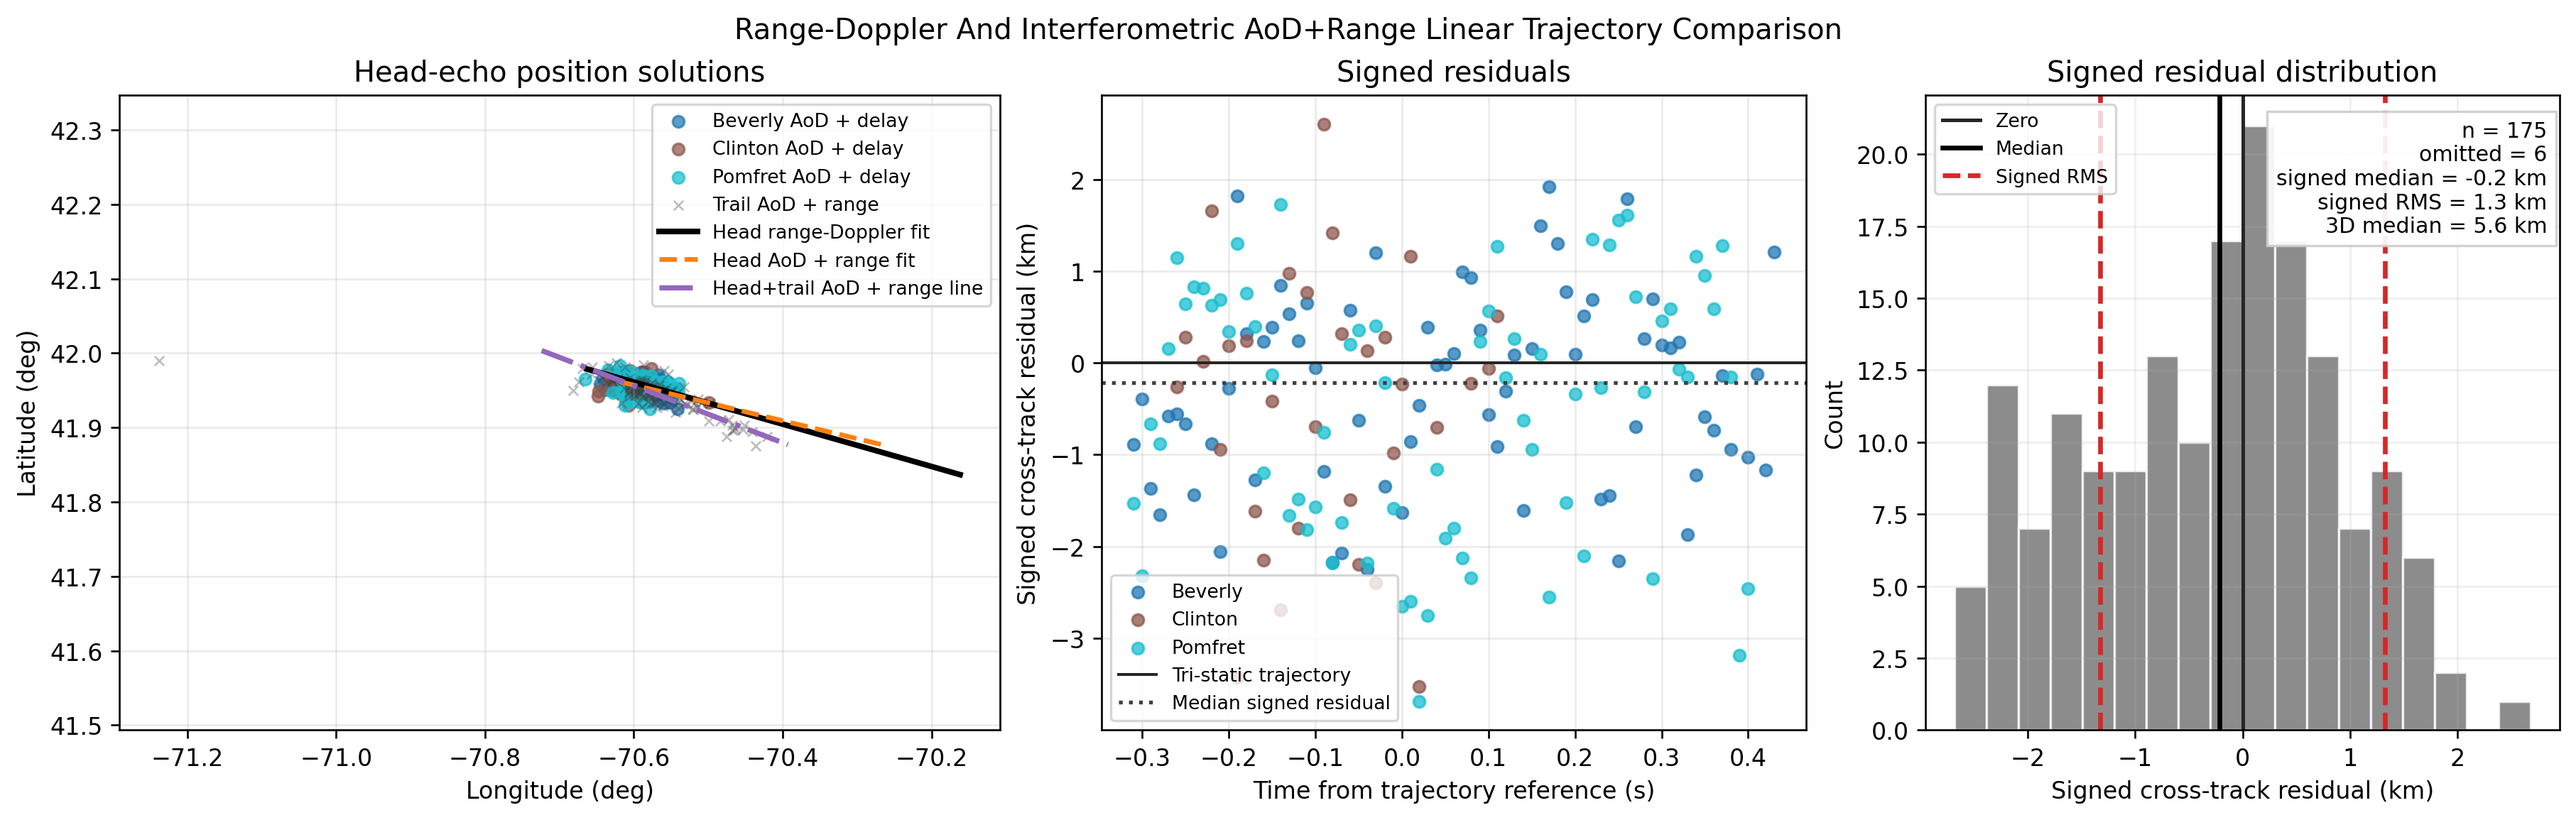
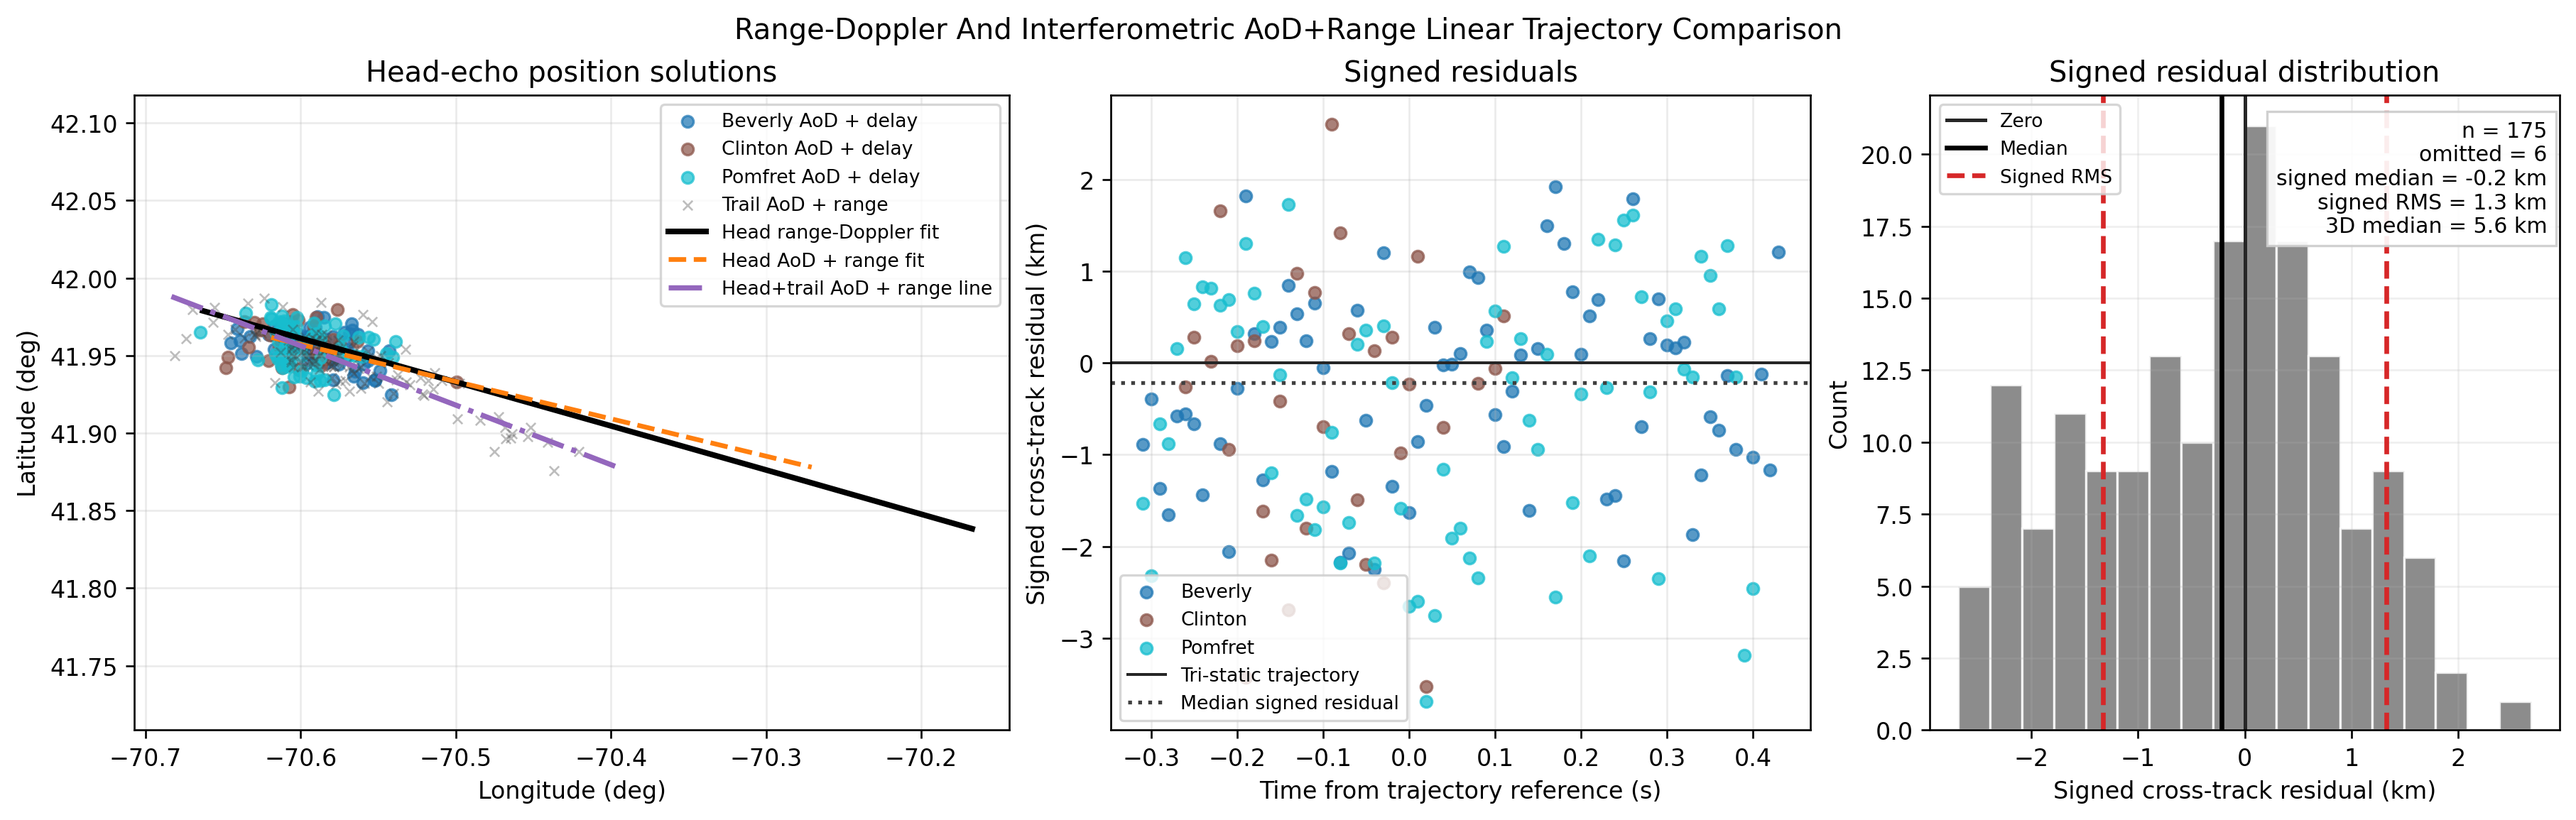
Hide AOD comparison display outlier

diff --git a/aod_position_from_merged.py b/aod_position_from_merged.py
@@ -474,6 +474,13 @@ def plot_map(rows, fit, sites, tx_ecef, rot, line_fit, out_png, uncertainty_samp
 def plot_appendix_comparison(rows, trail_rows, fit, tx_ecef, rot, line_fit, combined_line_fit, summary, out_png):
     fig_filter = summary["figure_outlier_filter"]
     plot_rows = [r for r, keep in zip(rows, fig_filter["keep_mask"]) if keep]
+    trail_plot_cutoff_m = 6000.0
+    trail_plot_rows = trail_rows
+    if trail_rows and combined_line_fit.get("fit_kind") == "spatial_line":
+        trail_pos = np.array([r["position_enu_m"] for r in trail_rows], dtype=float)
+        trail_pred = closest_points_on_spatial_line(combined_line_fit, trail_pos)
+        trail_residual_m = np.linalg.norm(trail_pos - trail_pred, axis=1)
+        trail_plot_rows = [r for r, keep in zip(trail_rows, trail_residual_m <= trail_plot_cutoff_m) if keep]
     stations = sorted(set(r["station"] for r in plot_rows))
     colors = dict(zip(stations, plt.cm.tab10(np.linspace(0, 1, len(stations)))))
     times = np.array([r["unix_time"] for r in plot_rows], dtype=float)
@@ -493,7 +500,7 @@ def plot_appendix_comparison(rows, trail_rows, fit, tx_ecef, rot, line_fit, comb
         cross_track_unit = np.array([1.0, 0.0, 0.0])
     signed_cross_track_km = ((pos - tri) @ cross_track_unit) / 1000.0
 
-    all_fit_rows = rows + trail_rows
+    all_fit_rows = plot_rows + trail_plot_rows
     all_times = np.array([r["unix_time"] for r in all_fit_rows], dtype=float)
     t_grid = np.linspace(all_times.min(), all_times.max(), 300)
     tri_grid = np.array([model_fit_enu(fit, t) for t in t_grid])
@@ -528,10 +535,10 @@ def plot_appendix_comparison(rows, trail_rows, fit, tx_ecef, rot, line_fit, comb
             color=colors[station],
             label=f"{station_label(station)} AoD + delay",
         )
-    if trail_rows:
+    if trail_plot_rows:
         ax.scatter(
-            [r["lon_deg"] for r in trail_rows],
-            [r["lat_deg"] for r in trail_rows],
+            [r["lon_deg"] for r in trail_plot_rows],
+            [r["lat_deg"] for r in trail_plot_rows],
             s=16,
             alpha=0.34,
             color="0.25",
